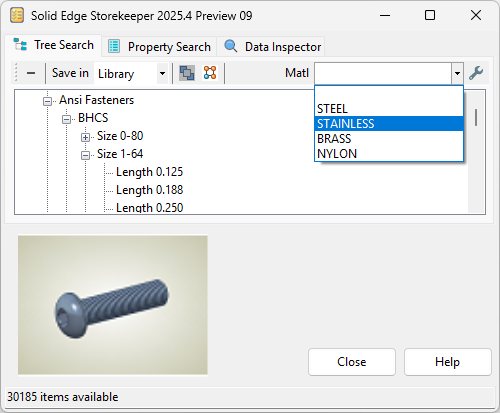
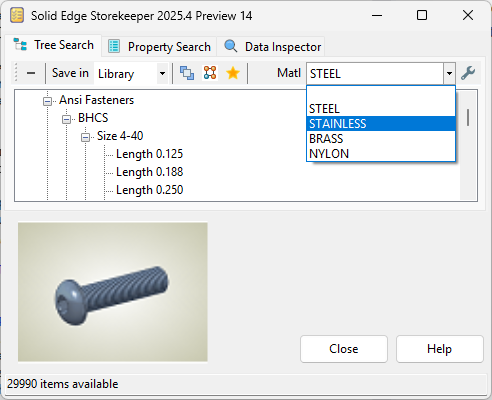
Documentation

diff --git a/Readme.md b/Readme.md
@@ -126,20 +126,22 @@ Most options are set on the **Tree Search Options** page (see next), but those m
   <img src="media/tree_search_toolbar.png">
 </p>
 
-- `Collapse`  Click ![Collapse](media/collapse.png) to close all open nodes on the tree.
+- `Collapse`  [![Collapse](media/collapse.png)] closes all open nodes in the tree.
 
 - `Save in`  Select where the file will be saved after it is created.
   - `Library`  The standard location for library parts.
   - `Assy Dir`  The same location as the assembly file currently open in Solid Edge.
   - `Other`  Anyplace else.
 
-- `Always on top`  Determines if the Storekeeper window remains on top of other windows.  Click ![Always on top](media/always_on_top_enabled.png) to toggle.
+- `Always on top`  [![Always on top](media/always_on_top_enabled.png)] determines if the Storekeeper window remains on top of other windows.  Click to toggle.
 
-- `Auto pattern`  Determines if the automatic patterning of newly placed parts will be performed.  Click ![Auto pattern](media/auto_pattern_enabled.png) to toggle.  See separate section below for details.
+- `Auto pattern`  [![Auto pattern](media/auto_pattern_enabled.png)] determines if the automatic patterning of newly placed parts will be performed.  Click to toggle.  See separate section below for details.
+
+- `Favorites only`  [![Favorites only](media/favorites_enabled.png)] determines if the tree shows all available items, or just your favorites.  Click  to toggle.  Edit the `Favorite` column in the spreadsheets (`AnsiFasteners.xls`, `ISO_Fasteners_1.xls`, etc.) to set your preferences.  Currently, the program must be restarted for the change to take effect.
 
 - `Matl`  The drop down contains all materials available for a chosen part.  If an item only has one material defined, it is selected automatically.  If you go to a different item in the tree and its material list contains the currently active material, the selection is retained.  
 
-- `Tree search options`  Click ![Options](media/Support_16.png) to open (see next).
+- `Tree search options`  [![Options](media/Support_16.png)] (see next).
 
 
 ### Tree Search Options

diff --git a/release_notes.md b/release_notes.md
@@ -96,7 +96,9 @@ See the [<ins>**Property Search Options**</ins>](https://github.com/rmcanany/Sol
 
 - Temporarily disabled the `Pre-Populate` feature from the previous version (Sorry **@Seva!**).  It is not currently compatible with multiple materials per category.  In particular it had trouble when a material is valid for one selected item, but not another.  You can still use the previous version when that feature is needed.
 
-- Moved the options `Always on top` and `Auto pattern` to the main toolbar.  Previously they were on the Tree Search Options page.  The idea was to reduce distraction and save a couple of clicks for these frequently toggled settings.
+- Moved the options `Always on top` and `Auto pattern` to the main toolbar.  Previously they were on the Tree Search Options page.  The idea was to reduce distraction and save a couple of clicks for these frequently toggled settings.  
+
+- Added a `Favorites only` button to the main toolbar.  See the [<ins>**Tree Search Toolbar**</ins>](https://github.com/rmcanany/SolidEdgeStorekeeper#tree-search-toolbar) section of the Readme for details.
 
 - Added a timeout for the `Place Part` command.  It was needed to avoid an infinite loop in the program.  Set it, on the **Tree Search Options** page, to give you ample time to constrain the part in the assembly.
 
